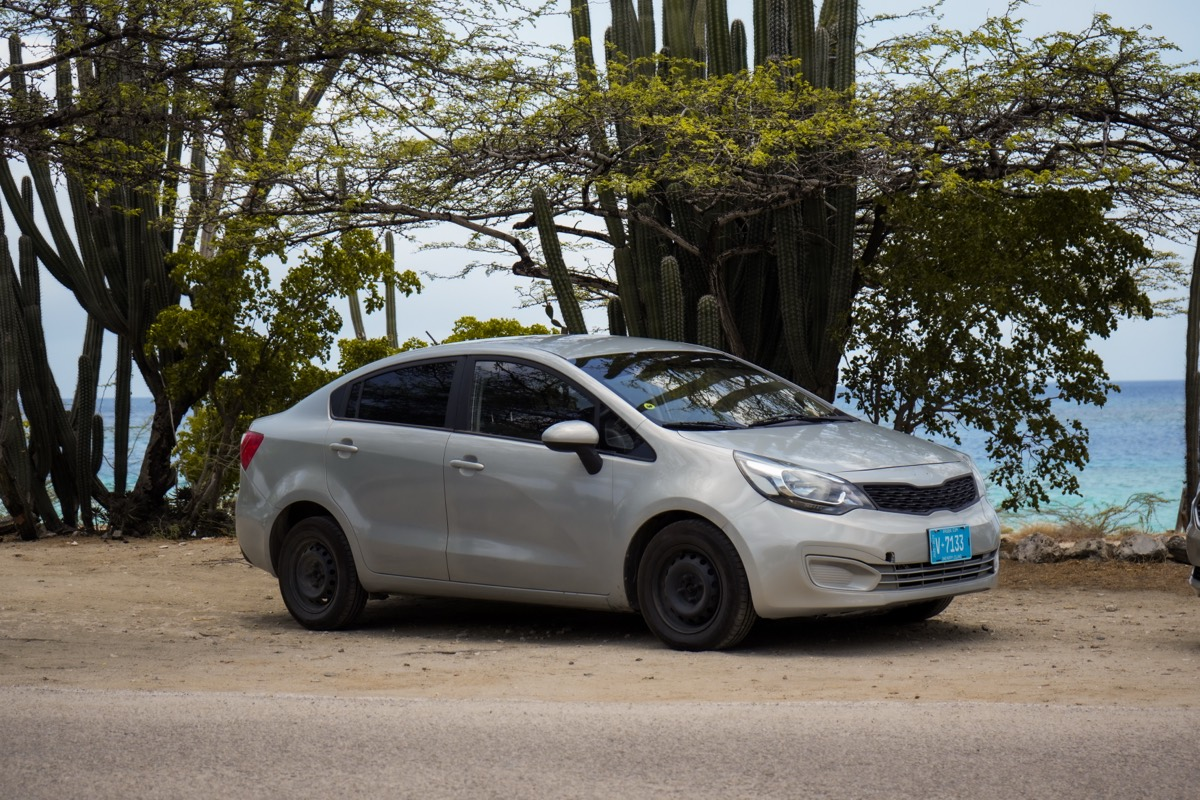
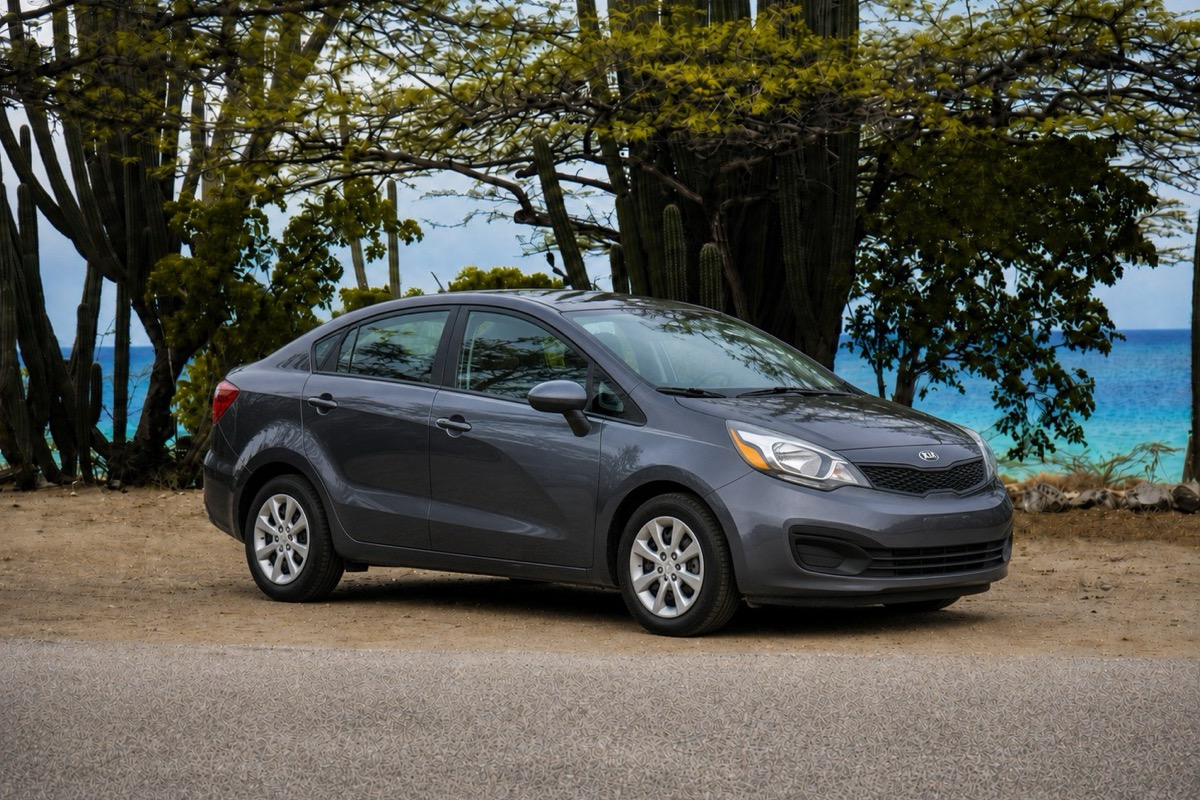
site: complete real fleet photography (Aug 2026 set), drop representative-photos disclaimer
All six fleet cards now use the owner's real cars shot in one consistent
coast style: new photos for the Hyundai i10, Suzuki Baleno and Chevrolet
Aveo (previously stock), and reshoots of the Ford Figo, Hyundai Accent
and Kia Rio to match. Originals archived in brand-kit/photography/
fleet-2026-08-12 (gitignored) with 3 unused spares.

diff --git a/site/data/fleet.js b/site/data/fleet.js
@@ -12,15 +12,15 @@
 
    The full fleet is ~34 cars (mostly Hyundai i10/Accent, Ford Figo,
    Kia Rio, Chevrolet Aveo, Suzuki); these cards show one of each model
-   per class. ⚠ Photos are still representative stock — swap in the
-   owner's real car photos when available.
+   per class. All six cards use the owner's real car photos
+   (Aug 2026 set, see assets/img/CREDITS.md).
    ============================================ */
 window.TEX_FLEET = [
-  { id: "eco-1", slug: "hyundai-i10",   class: "Economy", name: "Hyundai i10",    seats: 4, transmission: "Automatic", ac: true, doors: 4, priceDay: 50, priceWeek: 300, priceMonth: 1150, usdDay: 35, usdWeek: 210, usdMonth: 700, deposit: 500, usdDeposit: 250, status: "active", image: "assets/img/car-economy.jpg" },
+  { id: "eco-1", slug: "hyundai-i10",   class: "Economy", name: "Hyundai i10",    seats: 4, transmission: "Automatic", ac: true, doors: 4, priceDay: 50, priceWeek: 300, priceMonth: 1150, usdDay: 35, usdWeek: 210, usdMonth: 700, deposit: 500, usdDeposit: 250, status: "active", image: "assets/img/car-hyundai-i10.jpg" },
   { id: "eco-2", slug: "ford-figo",     class: "Economy", name: "Ford Figo",      seats: 5, transmission: "Automatic", ac: true, doors: 5, priceDay: 55, priceWeek: 330, priceMonth: 1300, usdDay: 40, usdWeek: 240, usdMonth: 800, deposit: 500, usdDeposit: 250, status: "active", image: "assets/img/car-ford-figo.jpg" },
-  { id: "eco-3", slug: "suzuki-baleno", class: "Economy", name: "Suzuki Baleno",  seats: 5, transmission: "Automatic", ac: true, doors: 4, priceDay: 40, priceWeek: 240, priceMonth: 900,  usdDay: 30, usdWeek: 180, usdMonth: 600, deposit: 500, usdDeposit: 250, status: "active", image: "assets/img/car-economy.jpg" },
+  { id: "eco-3", slug: "suzuki-baleno", class: "Economy", name: "Suzuki Baleno",  seats: 5, transmission: "Automatic", ac: true, doors: 4, priceDay: 40, priceWeek: 240, priceMonth: 900,  usdDay: 30, usdWeek: 180, usdMonth: 600, deposit: 500, usdDeposit: 250, status: "active", image: "assets/img/car-suzuki-baleno.jpg" },
   { id: "comp-1", slug: "hyundai-accent", class: "Compact", name: "Hyundai Accent", seats: 5, transmission: "Automatic", ac: true, doors: 4, priceDay: 60, priceWeek: 350, priceMonth: 1300, usdDay: 40, usdWeek: 240, usdMonth: 800, deposit: 500, usdDeposit: 250, status: "active", image: "assets/img/car-hyundai-accent.jpg" },
-  { id: "comp-2", slug: "chevrolet-aveo", class: "Compact", name: "Chevrolet Aveo", seats: 5, transmission: "Automatic", ac: true, doors: 4, priceDay: 55, priceWeek: 330, priceMonth: 1200, usdDay: 38, usdWeek: 225, usdMonth: 750, deposit: 500, usdDeposit: 250, status: "active", image: "assets/img/car-compact.jpg" },
+  { id: "comp-2", slug: "chevrolet-aveo", class: "Compact", name: "Chevrolet Aveo", seats: 5, transmission: "Automatic", ac: true, doors: 4, priceDay: 55, priceWeek: 330, priceMonth: 1200, usdDay: 38, usdWeek: 225, usdMonth: 750, deposit: 500, usdDeposit: 250, status: "active", image: "assets/img/car-chevrolet-aveo.jpg" },
   { id: "comp-3", slug: "kia-rio",        class: "Compact", name: "Kia Rio",        seats: 5, transmission: "Automatic", ac: true, doors: 4, priceDay: 55, priceWeek: 330, priceMonth: 1200, usdDay: 38, usdWeek: 225, usdMonth: 750, deposit: 500, usdDeposit: 250, status: "active", image: "assets/img/car-kia-rio.jpg" },
 ];
 

diff --git a/site/index.html b/site/index.html
@@ -162,7 +162,6 @@
             data-book-es="Un auto limpio y confiable para cada tipo de viaje, desde una vuelta rápida por la ciudad hasta un día entero explorando la isla. Toca cualquier auto y resérvalo online en minutos."
             data-book-pap="Un outo limpi i konfiabel pa tur tipo di biahe, for di un bùelta lihé den stat te un dia kompleto eksplorando e isla. Primi riba kualke outo i reservá e online den un par di minüt.">
             A clean, reliable car for every kind of trip, from quick runs around town to a full day exploring the island. Tap any car to reserve it on WhatsApp.</p>
-          <span class="placeholder-flag" data-en="Photos are representative, real fleet photos coming soon" data-nl="Foto's zijn ter illustratie, echte wagenparkfoto's volgen binnenkort" data-es="Las fotos son ilustrativas, las fotos reales llegan pronto" data-pap="E fotonan ta ilustrativo, fotonan real di e flota ta bin pronto">Photos are representative, real fleet photos coming soon</span>
         </div>
         <div class="fleet__grid" id="fleet-grid"><!-- rendered by main.js --></div>
       </div>

diff --git a/site/assets/img/CREDITS.md b/site/assets/img/CREDITS.md
@@ -1,31 +1,32 @@
 # Image credits
 
-## Real Tex Cars photography (owner-provided, 2026-06-22)
-These are the owner's own photos, resized for web from the originals in
-`brand-kit/photography/`:
+## Real Tex Cars photography (owner-provided)
 
-**Hero / header**
+**Hero / header** (June 2026 shoot, originals in `brand-kit/photography/`)
 - `hero-lighthouse.jpg` — California Lighthouse at sunset (from `lighthouse.jpg`)
 - `hero-cars.jpg` — Tex Cars on the Aruba coast (from `cars.png`)
 - `hero-anchor.jpg` — the blue anchor monument (from `ancor.jpg`)
 
-**Fleet (real cars, correctly matched)**
-- `car-ford-figo.jpg` — gold Ford Figo (from `DSC07067`)
-- `car-hyundai-accent.jpg` — white Hyundai Accent (from `DSC07134`)
-- `car-kia-rio.jpg` — silver Kia Rio (from `DSC07066`)
+**Fleet** (August 2026 set, originals in `brand-kit/photography/fleet-2026-08-12/`)
+All six fleet cards now use the owner's real cars, shot in one consistent
+coast style. Resized/cropped to 1200x800 for web:
+- `car-hyundai-i10.jpg` — red Hyundai i10
+- `car-ford-figo.jpg` — white Ford Figo
+- `car-suzuki-baleno.jpg` — green Suzuki Baleno
+- `car-hyundai-accent.jpg` — white Hyundai Accent
+- `car-chevrolet-aveo.jpg` — grey Chevrolet Aveo
+- `car-kia-rio.jpg` — grey Kia Rio
 
-## Still placeholders (Pexels, free license)
-The June 2026 photo shoot only contained three cars (Ford Figo, Hyundai Accent,
-Kia Rio). These three models were NOT photographed, so they still use stock
-placeholders chosen for the closest body style, and the fleet section keeps its
-"photos are representative" flag:
-- `car-economy.jpg` (hatchback) → **Hyundai i10**, **Suzuki Baleno**
-- `car-compact.jpg` (sedan) → **Chevrolet Aveo**
+The August set replaced the June shots of the Figo, Accent, and Rio so the
+whole grid shares one backdrop. Three extra shots (two more i10 generations
+and a Suzuki wagon) are archived in `fleet-2026-08-12/` unused, ready if
+more cards are ever added.
 
-⚠ **To finish:** shoot the i10, Baleno, and Aveo in the same coast/beauty-shot
-style and drop them in, then point those `data/fleet.js` entries at the new files
-and the disclaimer can be removed.
+The "photos are representative" disclaimer has been removed from the fleet
+section — every card is the real car now.
 
-Other unused stock (`car-suv.jpg`, `car-suv2.jpg`, `car-4x4.jpg`, `car-van.jpg`)
-remain from the original class-based set. `car-placeholder.svg` is the built-in
-fallback used if an image fails to load.
+## Remaining stock (Pexels, free license, currently unused)
+- `car-economy.jpg`, `car-compact.jpg`, `car-suv.jpg`, `car-suv2.jpg`,
+  `car-4x4.jpg`, `car-van.jpg` — from the original class-based set, kept as
+  spares. `car-placeholder.svg` is the built-in fallback used if an image
+  fails to load.
